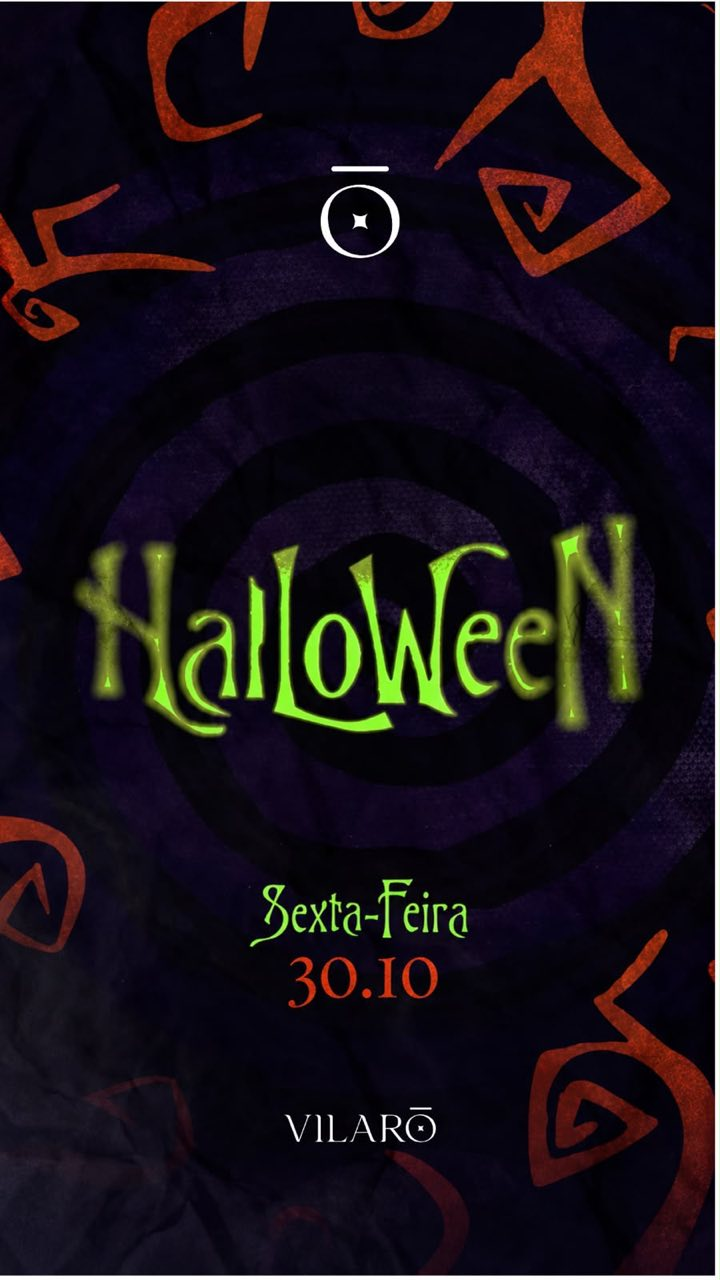
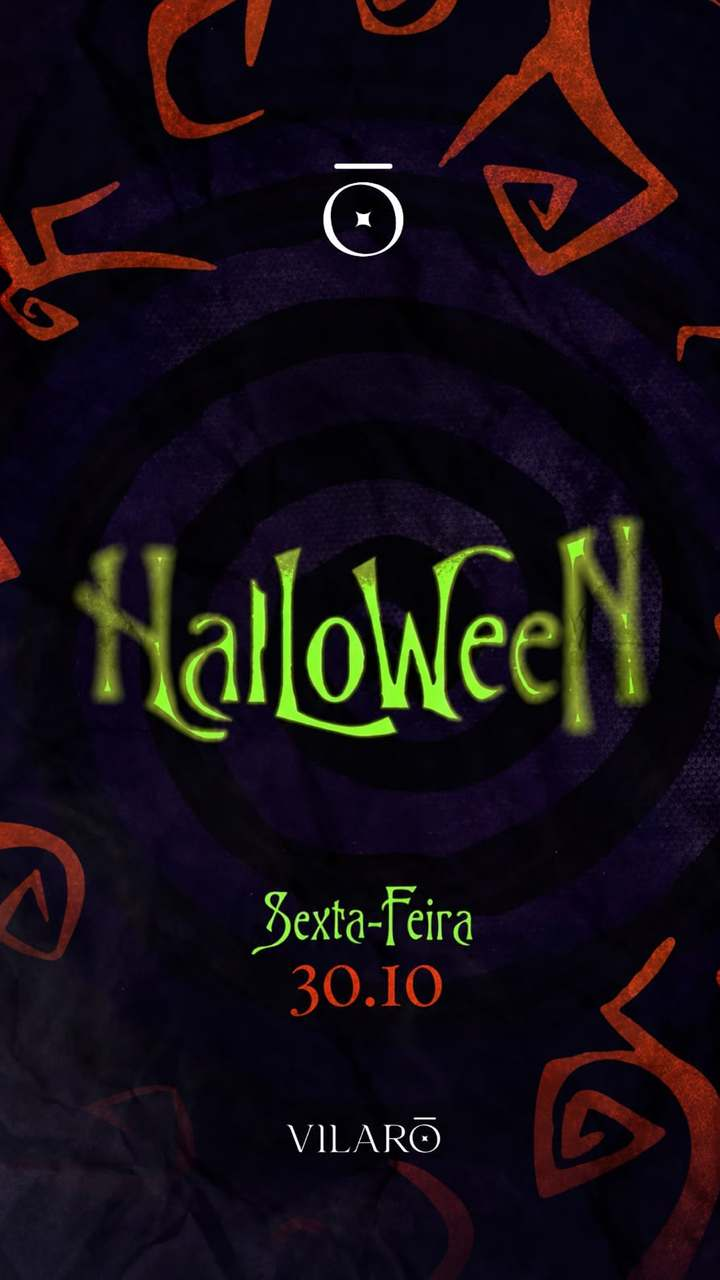
Halloween: recorta a borda branca do flyer original

diff --git a/index.html b/index.html
@@ -251,7 +251,7 @@
           </div>
         </a>
         <a class="event-poster" href="eventos/halloween-30-10.html" data-event-date="2026-10-30">
-          <img src="assets/eventos/halloween-30-10.jpg" alt="Vilarô, Halloween, 30.10" width="720" height="1280" loading="lazy">
+          <img src="assets/eventos/halloween-30-10.jpg?v=2" alt="Vilarô, Halloween, 30.10" width="720" height="1280" loading="lazy">
           <div class="event-poster__overlay">
             <div class="event-poster__pills">
               <span class="event-poster__eyebrow"><svg aria-hidden="true"><use href="#i-tag"></use></svg>Lista De Desconto</span>

diff --git a/eventos/halloween-30-10.html b/eventos/halloween-30-10.html
@@ -72,7 +72,7 @@
     <p class="back-link reveal"><a href="../index.html">&larr; Voltar</a></p>
 
     <!-- Flyer do evento, mandado pela promoter (assets/eventos/halloween-30-10.jpg) -->
-    <img class="event-cover reveal" src="../assets/eventos/halloween-30-10.jpg" alt="Vilarô, Halloween, 30.10" width="720" height="1280" fetchpriority="high">
+    <img class="event-cover reveal" src="../assets/eventos/halloween-30-10.jpg?v=2" alt="Vilarô, Halloween, 30.10" width="720" height="1280" fetchpriority="high">
 
     <div class="section reveal" style="margin-top: 24px;">
       <h1 class="event-title">Halloween</h1>
